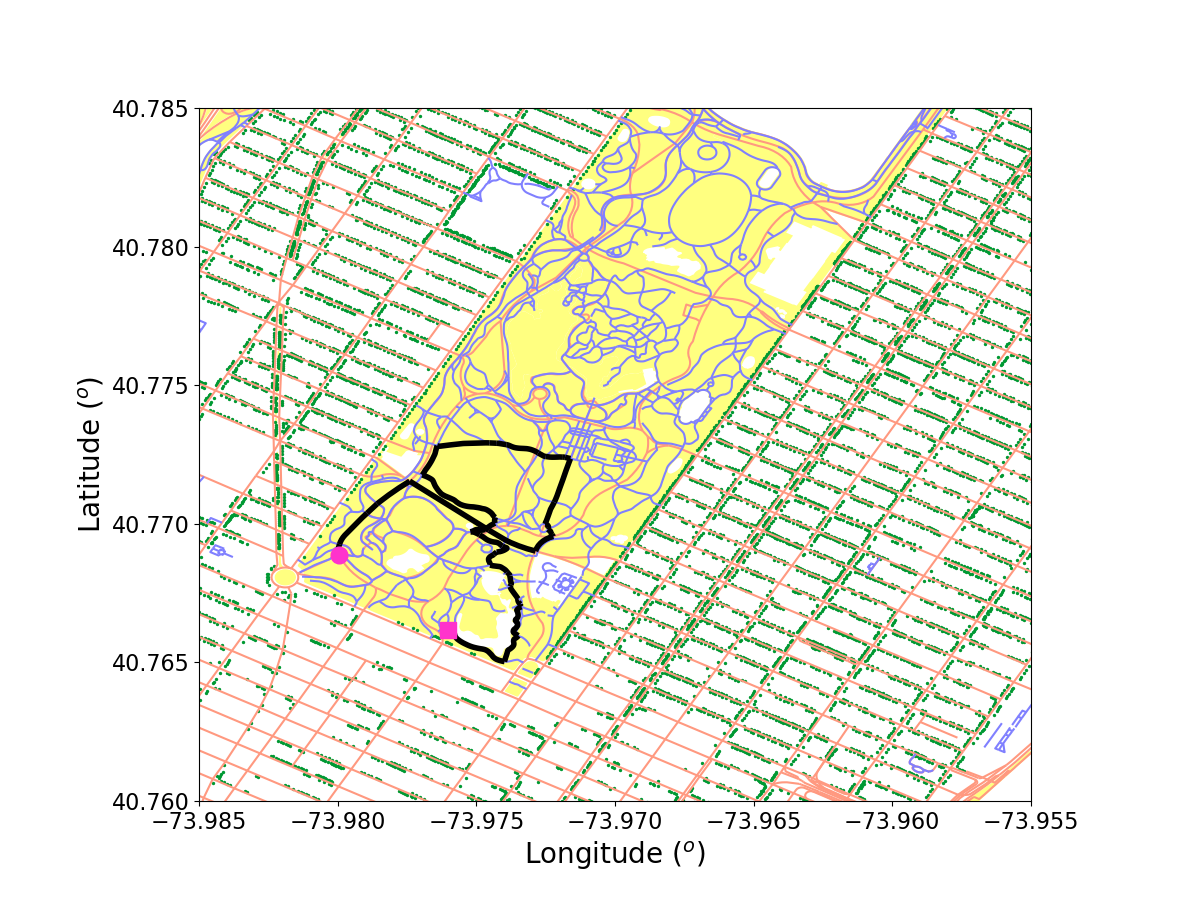
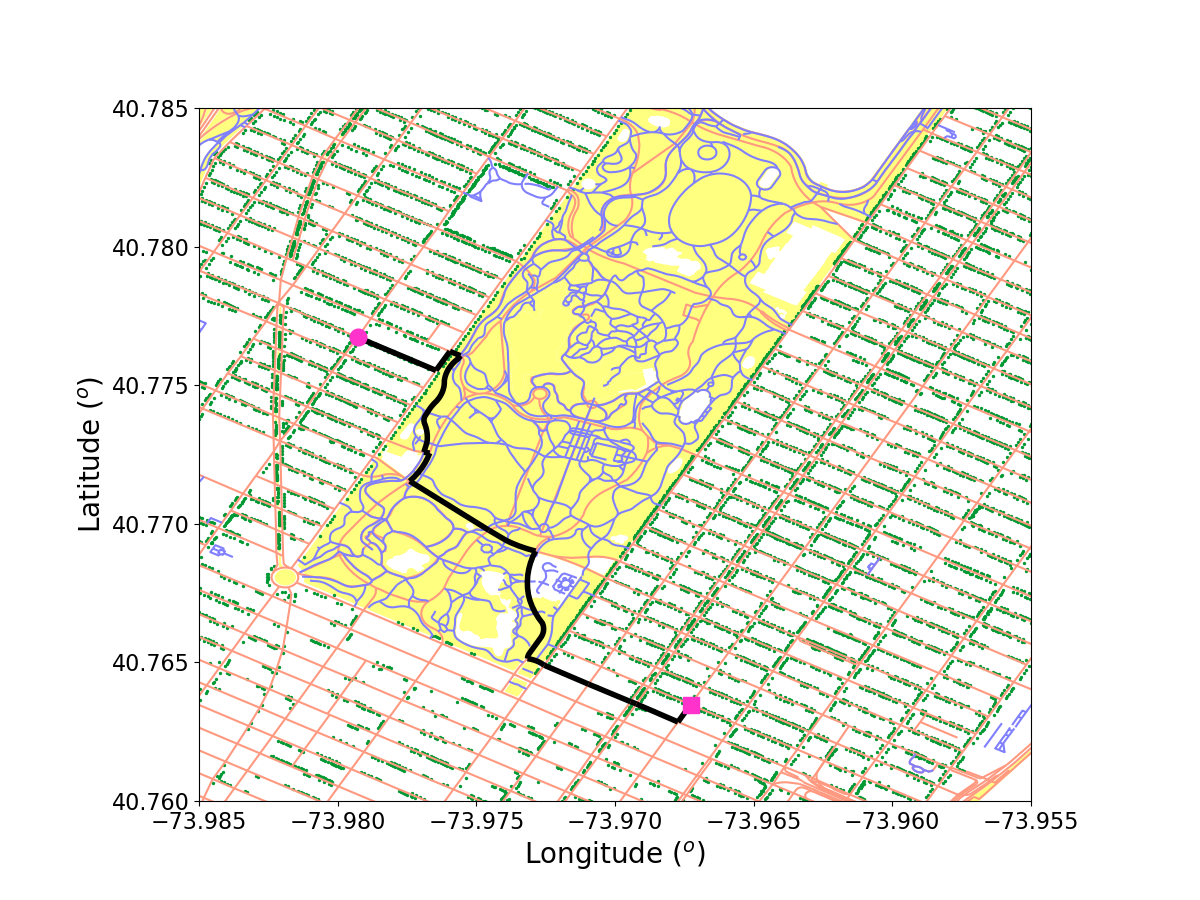
editing README.

diff --git a/README.md b/README.md
@@ -12,11 +12,30 @@ I implemented a modified Dijkstra's algorithm to optimize running routes bases o
 
 The web-app lives at http://runningheaven.space/
 
+Below is an example of a 5 km route. Parks (yellow), streets (red), pedestrian roads (blue), and trees (green) are shown with the optimized running route (black) from the starting point (quare magenta) to the end point (circle magents)
 
 <p align='center'>
 <img src='figures/example_route.png' width='650'>
 </p>
 
 
-# To run
+# To Run Locally
+  * Download the data (a script will be provided in the near future, but download the data manually from the links below and move the files to running_heaven/raw_data/).
+  * Run build_database.py to process the raw data
+  * Run route_optimization.py to optimize routes. The arguments are hardcoded for now, but it will be possible to enter them from the command line soon.
+
+# Packages to install
+  * numpy
+  * scipy
+  * pandas
+  * matplotlib
+  * flask
+  * scikit-learn
+  * jupyter
+  * seaborn
+  * geopandas
+  * googlemaps
+  * requests
+  * flask (only for web-app)
+  * gunicorn (only for web-app server)
 
